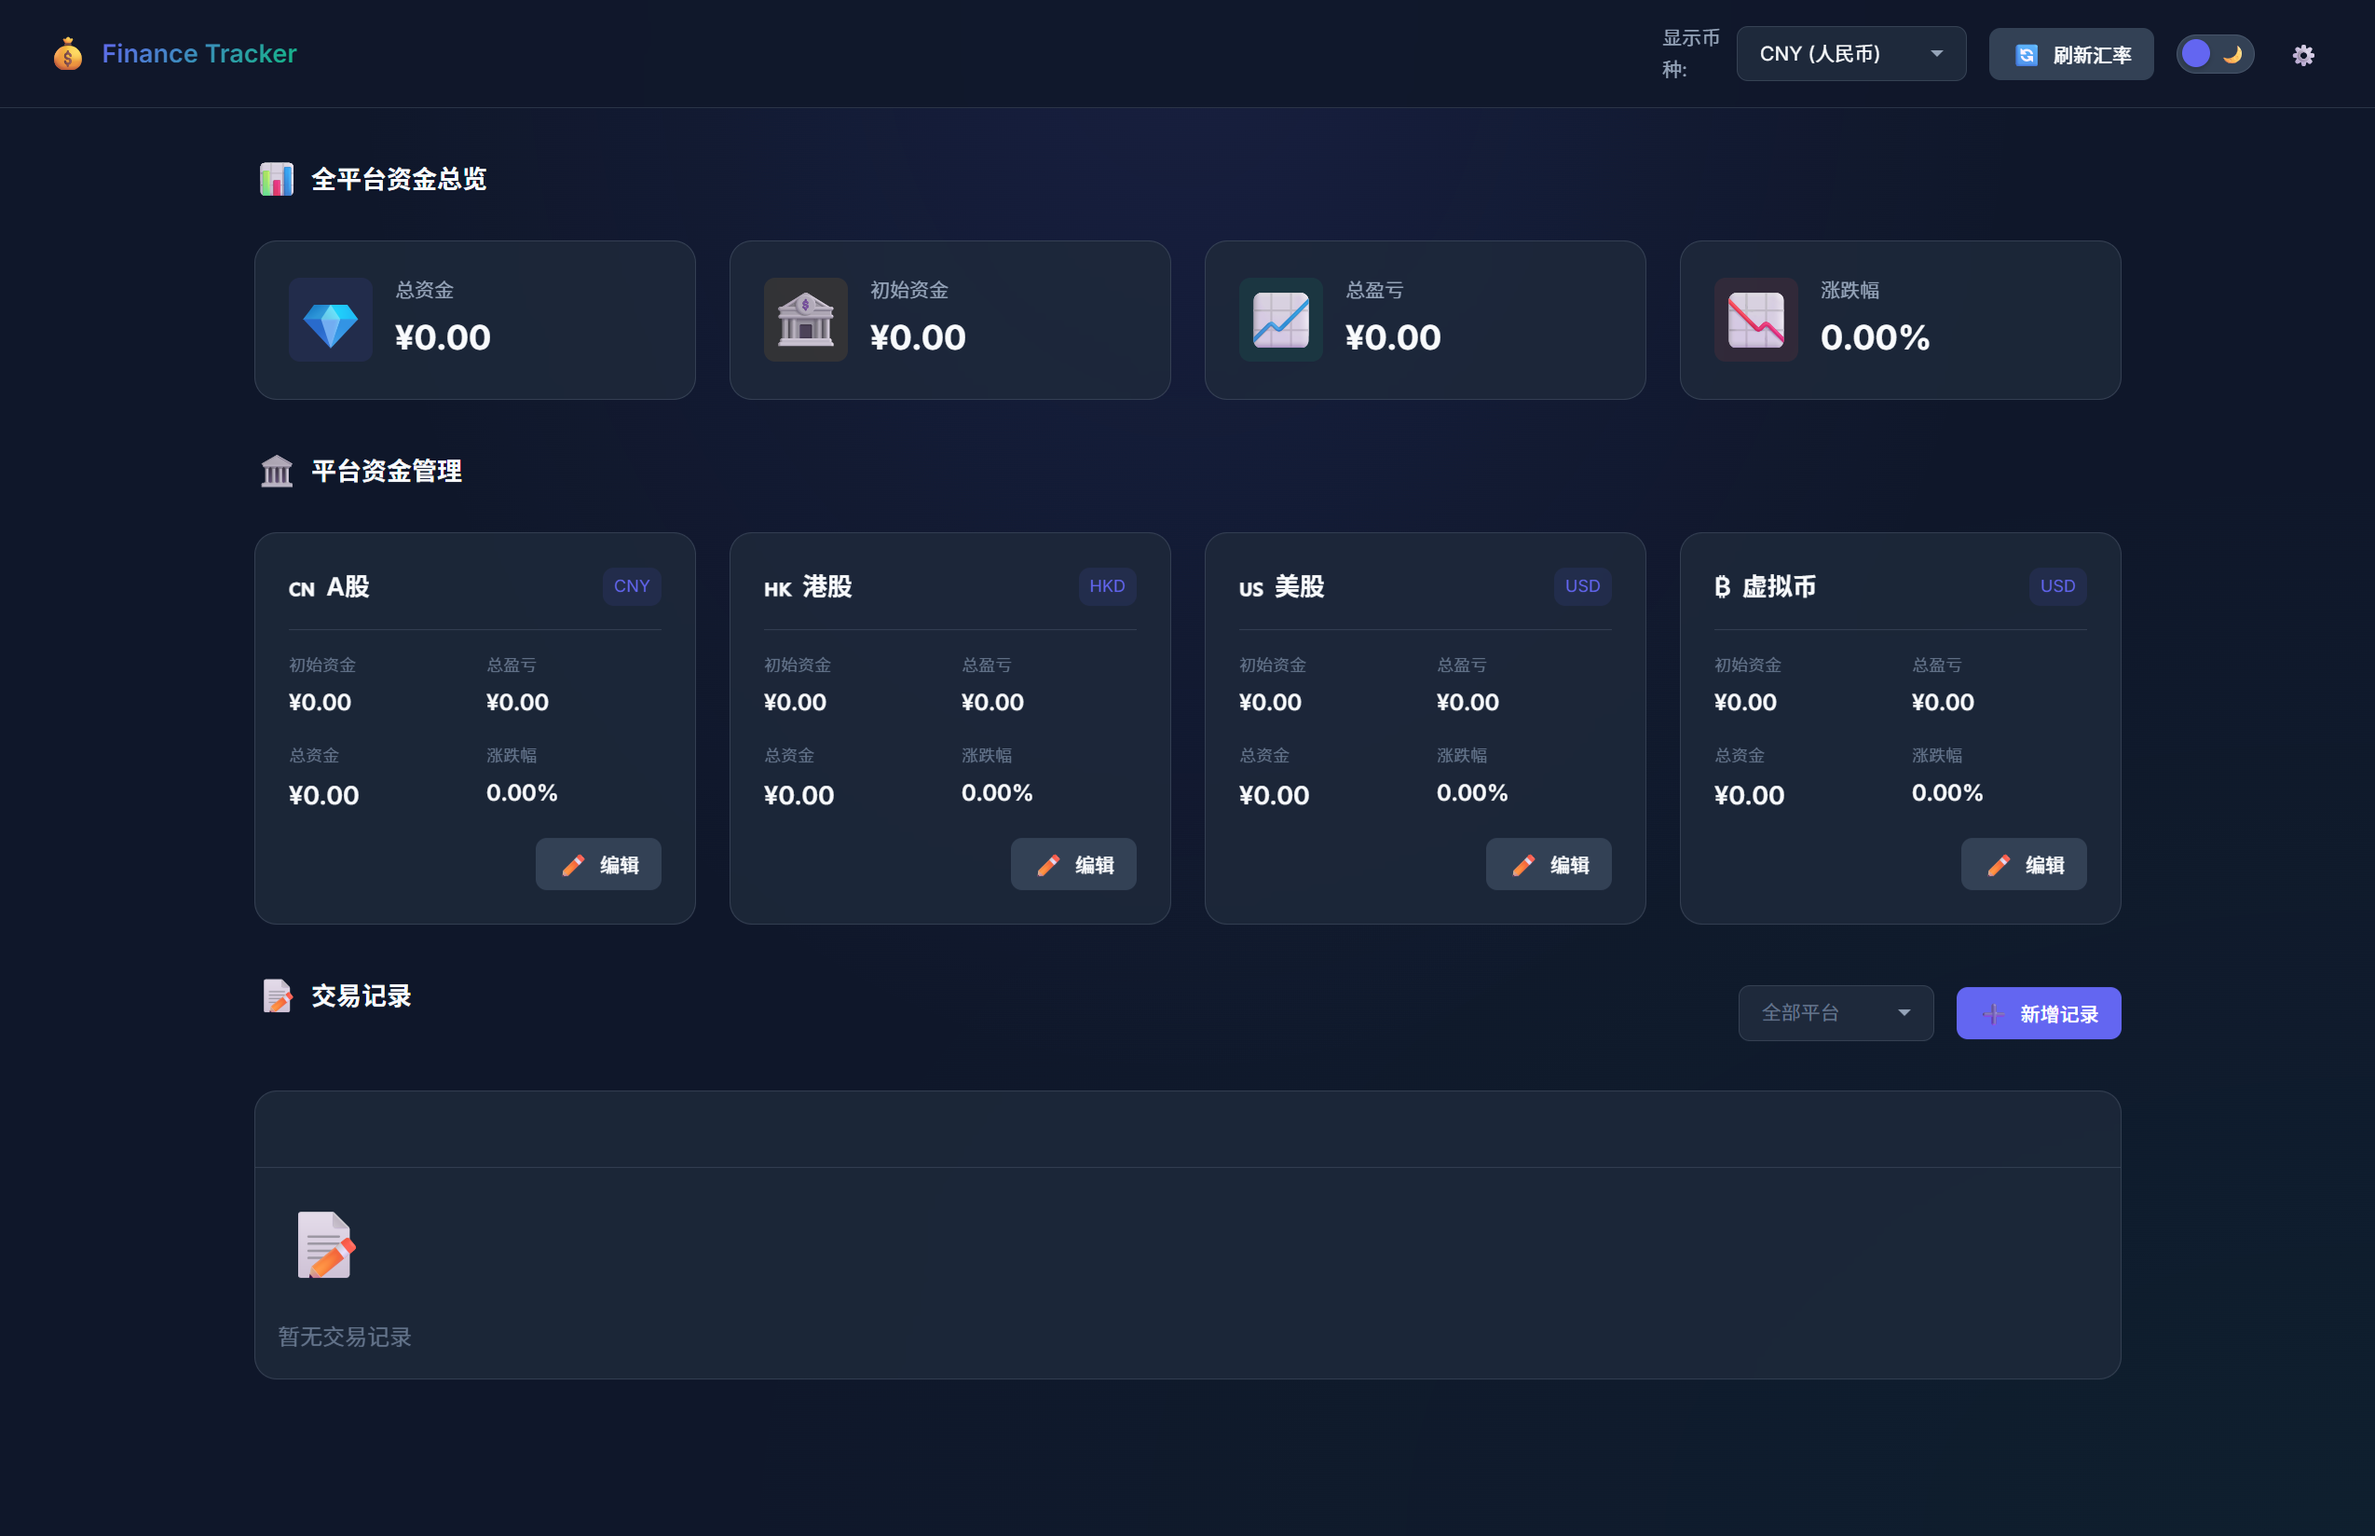
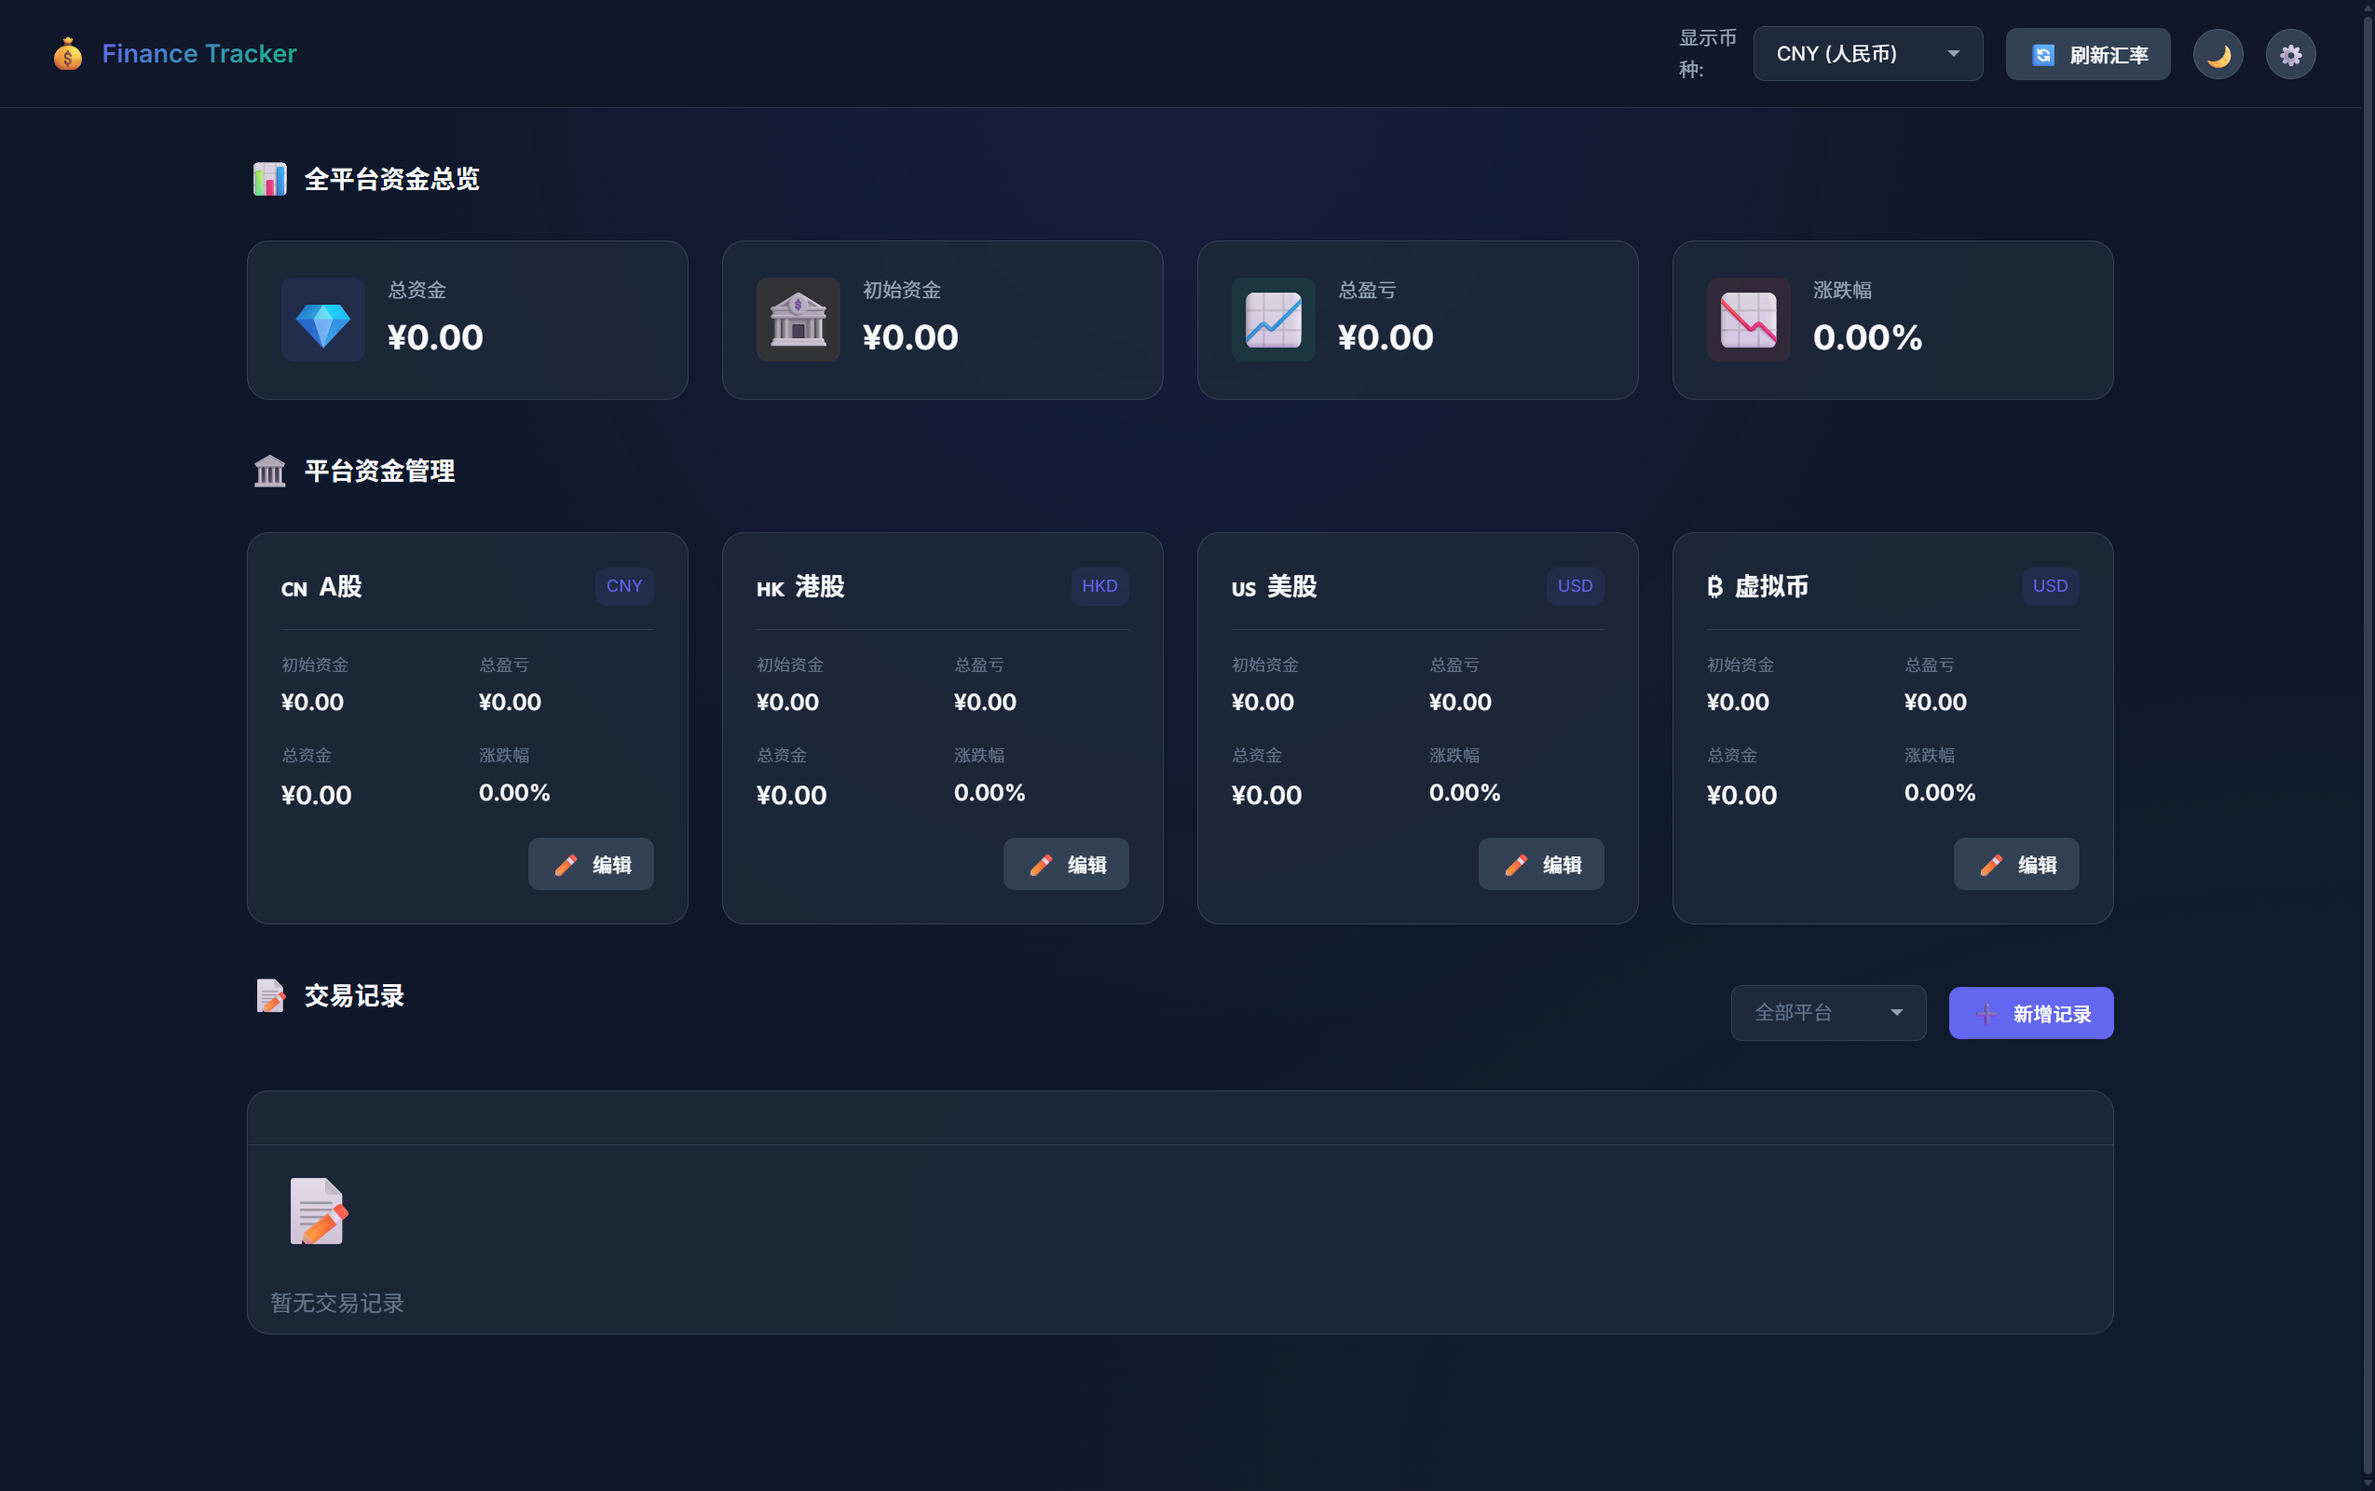
添加新的演示图片并更新文档：新增3张应用界面截图

diff --git a/README.md b/README.md
@@ -12,14 +12,23 @@
 
 ## 🖼 预览图
 
-### 主界面总览
-![主界面总览](https://github.com/rggameffl1/Finance-Tracker/blob/main/images/1.png?raw=true)
+### 深色主题 - 主界面总览
+![深色主题 - 主界面总览](https://github.com/rggameffl1/Finance-Tracker/blob/main/images/1.png?raw=true)
 
-### 交易记录管理
-![交易记录管理](https://github.com/rggameffl1/Finance-Tracker/blob/main/images/2.png?raw=true)
+### 浅色主题 - 主界面总览
+![浅色主题 - 主界面总览](https://github.com/rggameffl1/Finance-Tracker/blob/main/images/2.png?raw=true)
 
-### 数据统计总览
-![数据统计总览](https://github.com/rggameffl1/Finance-Tracker/blob/main/images/3.png?raw=true)
+### 深色主题 - 设置页面
+![深色主题 - 设置页面](https://github.com/rggameffl1/Finance-Tracker/blob/main/images/3.png?raw=true)
+
+### 深色主题 - 交易记录管理
+![深色主题 - 交易记录管理](https://github.com/rggameffl1/Finance-Tracker/blob/main/images/4.png?raw=true)
+
+### 浅色主题 - 设置页面
+![深色主题 - 设置页面](https://github.com/rggameffl1/Finance-Tracker/blob/main/images/5.png?raw=true)
+
+### 深色主题 - 主界面总览
+![深色主题 - 主界面总览](https://github.com/rggameffl1/Finance-Tracker/blob/main/images/6.png?raw=true)
 
 ## ✨ 功能特性
 
